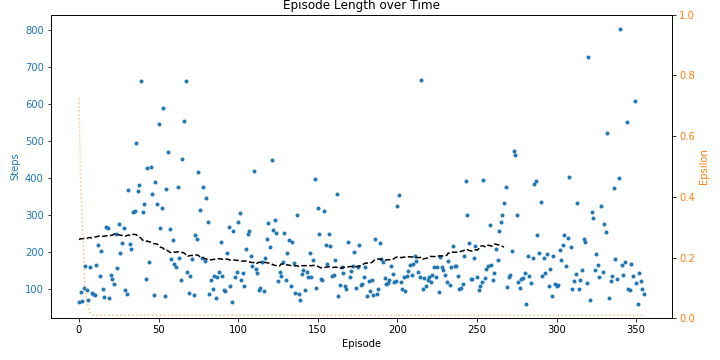
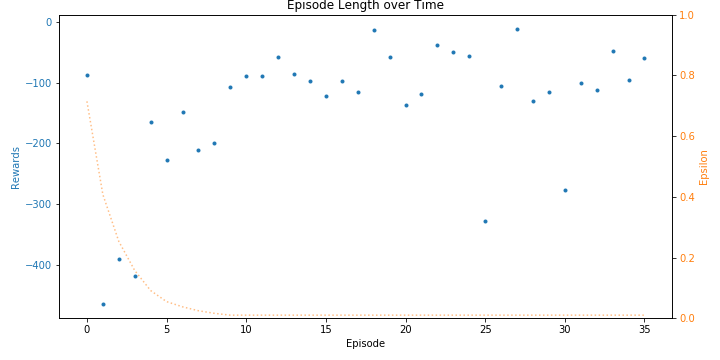
Charts do rewards instead of episode length

diff --git a/cartpole_lab/charts.py b/cartpole_lab/charts.py
@@ -17,13 +17,13 @@ def plot_fn(f, start, end, point_count = 100):
     plt.plot(x, y)
     plt.show()
 
-def plot_episode_lengths(episode_lengths, epsilons, save=None):
+def plot_episode_scores(episode_scores, epsilons, save=None):
     """Plot the episode lengths over time.
     save: Filename to save plot such as 'image.png'
     Example:
-        episode_lengths = [9, 19, 17, 24, 32, 54, 76, 12, 92]
-        epsilons = [0.99 ** i for i in range(len(episode_lengths))]
-        plot_episode_lengths(episode_lengths, epsilons)
+        episode_scores = [9, 19, 17, 24, 32, 54, 76, 12, 92]
+        epsilons = [0.99 ** i for i in range(len(episode_scores))]
+        plot_episode_scores(episode_scores, epsilons)
     """
     # 
     # https://matplotlib.org/gallery/api/two_scales.html
@@ -34,16 +34,16 @@ def plot_episode_lengths(episode_lengths, epsilons, save=None):
 
     color = 'tab:blue'
     ax1.set_xlabel('Episode')
-    ax1.set_ylabel('Steps', color=color)
-    if len(episode_lengths) > 1000: # https://matplotlib.org/api/markers_api.html
+    ax1.set_ylabel('Rewards', color=color)
+    if len(episode_scores) > 1000: # https://matplotlib.org/api/markers_api.html
         dotstyle = ',' # pixels
     else:
         dotstyle = '.' # points
-    ax1.plot(episode_lengths, dotstyle, color=color)
+    ax1.plot(episode_scores, dotstyle, color=color)
     ax1.tick_params(axis='y', labelcolor=color)
 
-    avg_width = int(len(episode_lengths)/4)
-    ax1.plot(moving_average(episode_lengths, window_width=avg_width), color='black', linestyle='--')
+    window_width = 100 # Scoring criteria for most environments is average over 100 consecutive episodes.
+    ax1.plot(moving_average(episode_scores, window_width=window_width), color='black', linestyle='--')
     #handles, labels = ax1.get_legend_handles_labels()
 
     color = 'tab:orange'
@@ -62,10 +62,10 @@ def plot_episode_lengths(episode_lengths, epsilons, save=None):
         plt.savefig(save)
     plt.show()
 
-def test_episode_lengths():
-    episode_lengths = [9, 19, 17, 24, 32, 54, 76, 12, 92]
-    epsilons = [0.99 ** i for i in range(len(episode_lengths))]
-    plot_episode_lengths(episode_lengths, epsilons)
+def test_episode_scores():
+    episode_scores = [9, 19, 17, 24, 32, 54, 76, 12, 92]
+    epsilons = [0.99 ** i for i in range(len(episode_scores))]
+    plot_episode_scores(episode_scores, epsilons)
 
 def moving_average(data, window_width=10):
     # https://stackoverflow.com/questions/11352047/finding-moving-average-from-data-points-in-python

diff --git a/cartpole_lab/agent.py b/cartpole_lab/agent.py
@@ -1,5 +1,5 @@
 from .progress import log_progress
-from .charts import plot_episode_lengths
+from .charts import plot_episode_scores
 import numpy as np
 import time
 
@@ -26,7 +26,7 @@ class Agent:
         return episode
     
     def train(self, episodes=100, render=False, epsilon_start=1.0, epsilon_min = 0.01, epsilon_decay=0.995):
-        episode_lengths = []
+        episode_scores = []
         epsilons = []
         image_update_seconds = 5
         last_update_time = time.time()
@@ -37,15 +37,17 @@ class Agent:
         chartfile = r'images/progress.png'
         for _ in log_progress(range(episodes), name='Episodes'):
             episode = self.run_episode(render=render)
-            episode_lengths.append(len(episode))
+            episode_scores.append(total_rewards(episode))
             epsilons.append(self.policy.epsilon)
             self.policy.episode_completed(episode)
             now = time.time()
             if now - last_update_time > image_update_seconds:
-                plot_episode_lengths(episode_lengths, epsilons, save=chartfile)
+                plot_episode_scores(episode_scores, epsilons, save=chartfile)
                 last_update_time = now
 
-        plot_episode_lengths(episode_lengths, epsilons, save=chartfile)
-        print('Max length=%f avg=%f' % (np.max(episode_lengths), np.mean(episode_lengths)))
+        plot_episode_scores(episode_scores, epsilons, save=chartfile)
         
         self.policy.epsilon = epsilon_orig # Restore epsilon.
+
+def total_rewards(episode):
+    return sum([reward for (state, action, reward, next_state, done) in episode])
